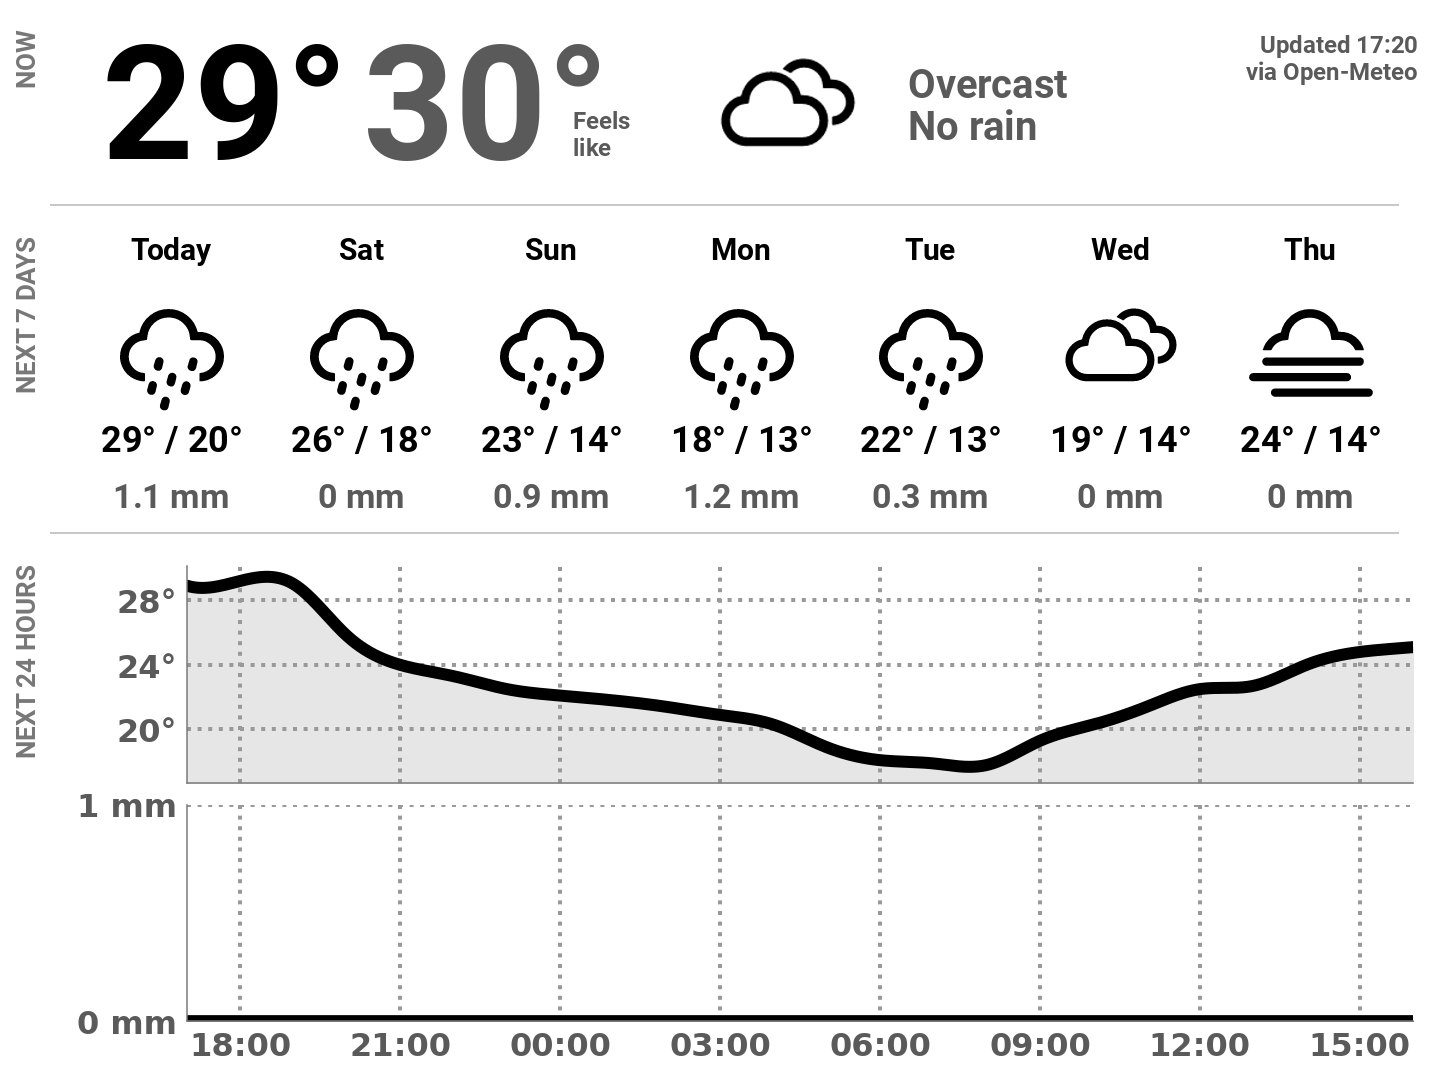
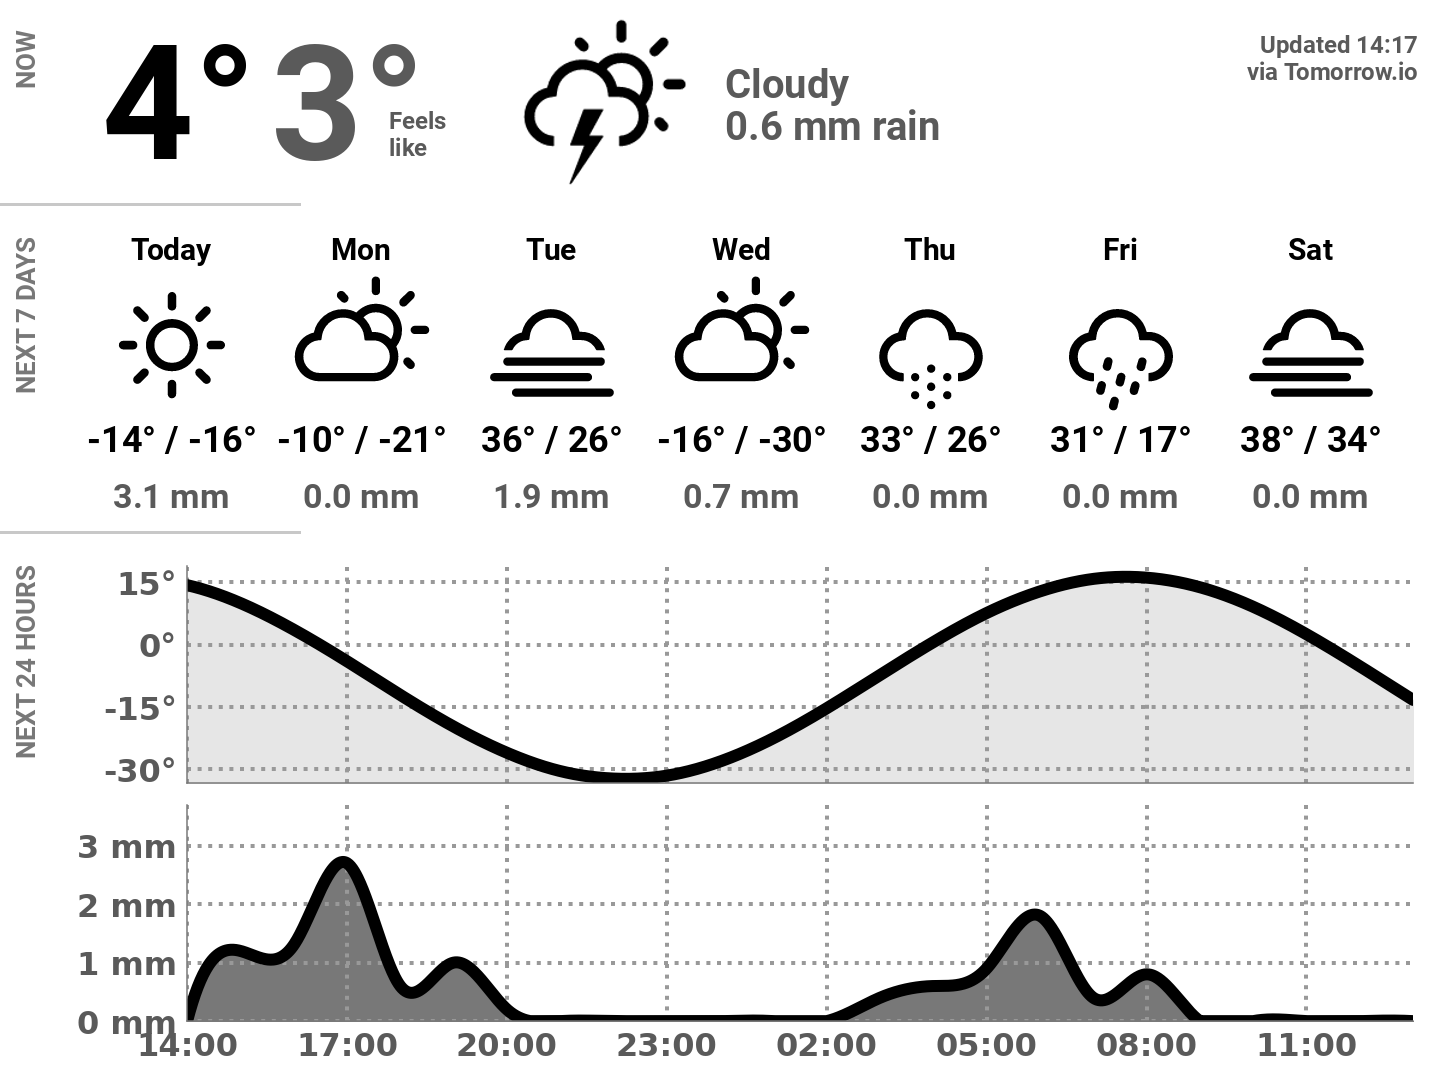
for some reason these horizontal lines ruin the display but it works if they are shorter. No idea why.

diff --git a/rpi_weather_display/image.py b/rpi_weather_display/image.py
@@ -92,8 +92,8 @@ def create_forecast_image(
 
     # Hairline dividers between the three bands
     d = ImageDraw.Draw(img)
-    d.line([(MARGIN + 20, DAILY_Y - 4), (width - MARGIN - 20, DAILY_Y - 4)], fill=RULE, width=2)
-    d.line([(MARGIN + 20, PLOT_Y - 4), (width - MARGIN - 20, PLOT_Y - 4)], fill=RULE, width=2)
+    d.line([(0, DAILY_Y - 4), (300, DAILY_Y - 4)], fill=RULE, width=3)
+    d.line([(0, PLOT_Y - 4), (300, PLOT_Y - 4)], fill=RULE, width=3)
 
     return img.rotate(rotate)
 

diff --git a/README.md b/README.md
@@ -22,7 +22,7 @@ Currently 3 weather providers are supported:
 
 Example display image:
 
-<img src="https://raw.githubusercontent.com/FutureSharks/rpi-weather-display/master/img/display-example.png" width="800">
+![complete](img/display-example.png)
 
 Photo of completed unit:
 
